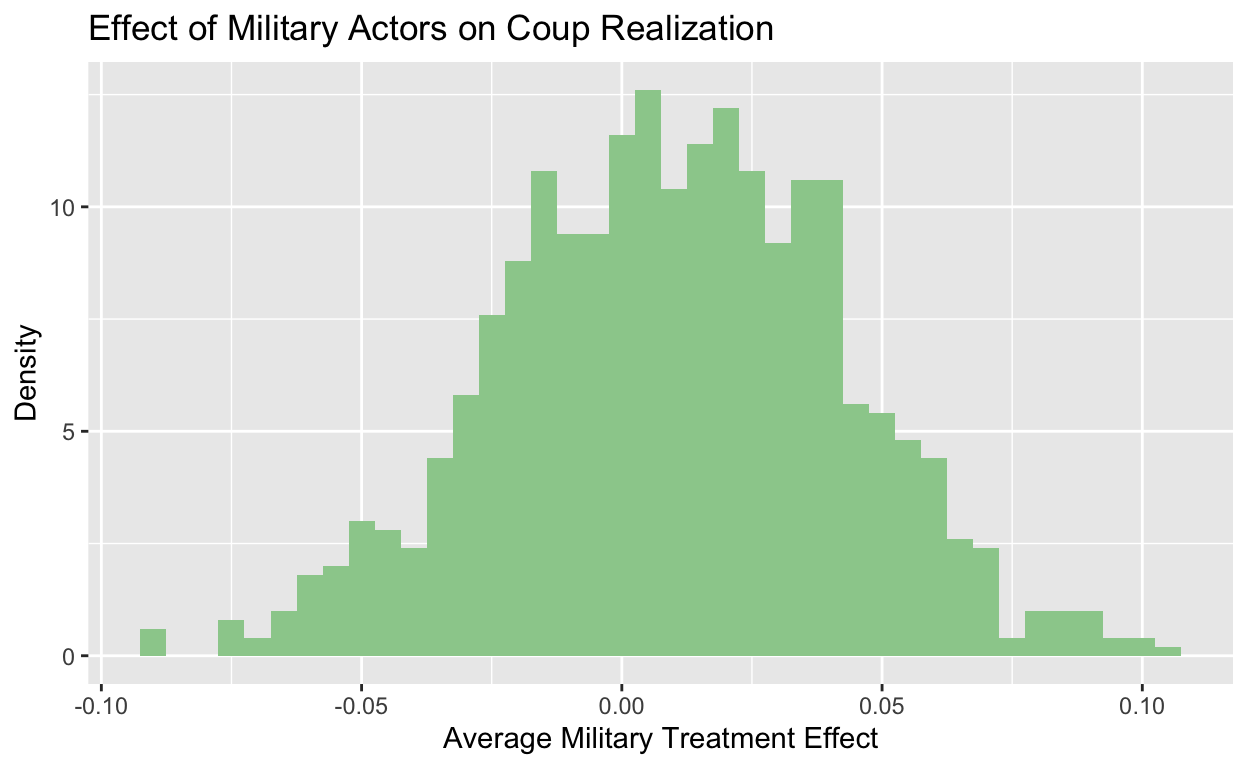
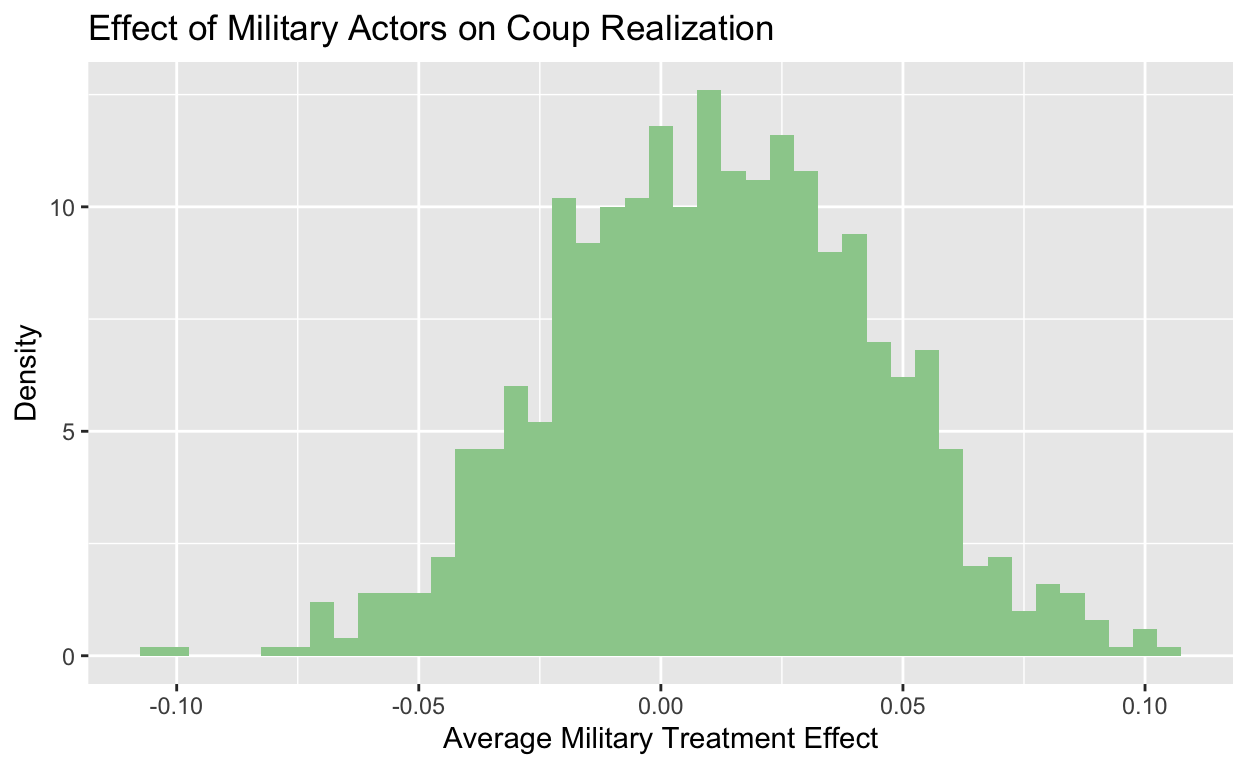
Second Try!

diff --git a/index.html b/index.html
@@ -1595,18 +1595,18 @@ code span.wa { color: #5e5e5e; font-style: italic; } /* Warning */
 </div>
 <pre><code># A tibble: 1,000 × 4
 # Groups:   replicate [1,000]
-   replicate   `0`   `1`      ATE
-       &lt;int&gt; &lt;dbl&gt; &lt;dbl&gt;    &lt;dbl&gt;
- 1         1 0.479 0.450 -0.0285 
- 2         2 0.472 0.443 -0.0294 
- 3         3 0.417 0.413 -0.00371
- 4         4 0.487 0.451 -0.0359 
- 5         5 0.470 0.438 -0.0327 
- 6         6 0.395 0.439  0.0439 
- 7         7 0.452 0.450 -0.00220
- 8         8 0.457 0.438 -0.0192 
- 9         9 0.432 0.454  0.0218 
-10        10 0.414 0.391 -0.0230 
+   replicate   `0`   `1`     ATE
+       &lt;int&gt; &lt;dbl&gt; &lt;dbl&gt;   &lt;dbl&gt;
+ 1         1 0.426 0.487  0.0606
+ 2         2 0.479 0.456 -0.0230
+ 3         3 0.421 0.459  0.0387
+ 4         4 0.482 0.460 -0.0216
+ 5         5 0.470 0.448 -0.0222
+ 6         6 0.470 0.458 -0.0115
+ 7         7 0.460 0.421 -0.0391
+ 8         8 0.409 0.454  0.0451
+ 9         9 0.451 0.436 -0.0142
+10        10 0.495 0.451 -0.0437
 # ℹ 990 more rows</code></pre>
 <div class="sourceCode">
 <pre class="sourceCode r"><code class="sourceCode r"><span><span class='va'>mil_ci_95</span> <span class='op'>&lt;-</span> <span class='va'>mil_boots</span> <span class='op'>|&gt;</span></span>
@@ -1625,13 +1625,13 @@ code span.wa { color: #5e5e5e; font-style: italic; } /* Warning */
 </thead>
 <tbody>
 <tr class="odd">
-<td style="text-align: right;">-0.0554</td>
-<td style="text-align: right;">0.0711</td>
+<td style="text-align: right;">-0.0526</td>
+<td style="text-align: right;">0.0765</td>
 </tr>
 </tbody>
 </table>
 </div>
-<p>In terms of the difference in means, the estimated average treatment effect is a small positive number, at just .0099. That means that essentially there is not much of a difference of a coup getting realized if the military is involved. What it does show is that there isn’t a decrease either. That is, having military involvement does not necessarily mean that a coup is less likely to be realized. This is because there is a positive relationship between the two variables. Thus, while the confidence intervals will determine whether or not the null hypothesis can be rejected, the ATE allows us to examine the relationship in the first place.</p>
+<p>The above is a difference in differences. In terms of the difference in means, the estimated average treatment effect is a small positive number, at just .0099. That means that essentially there is not much of a difference of a coup getting realized if the military is involved. What it does show is that there isn’t a decrease either. That is, having military involvement does not necessarily mean that a coup is less likely to be realized. This is because there is a positive relationship between the two variables. Thus, while the confidence intervals will determine whether or not the null hypothesis can be rejected, the ATE allows us to examine the relationship in the first place.</p>
 <p>This visualization demonstrates that military involvement does not decisively impact whether or not a coup d’etat is realized or not. This is because the 95 confidence intervals include zero. The Lower Confidence Interval is -0.05203567 and the Upper Confidence Interval is 0.06772111. The greater meaning of this is that military actors, contrary to expectation, do not actually increase the likelihood that a coup will be realized. This provides evidence against the hypothesis that trained and disciplined military cadres would be more prepared to follow through on a coup than civilian conspirators.</p>
 <p>We used the 95 percent confidence interval so that we could see if we would get a meaningful result in 95 percent of repeated samples, and it is clear that we are discovering that we don’t meet that threshold. So there is statistical uncertainty, meaning we can’t reject the null hypothesis that there is statistical difference. An important thing to note for confidence intervals is also that for each particular calculated confidence interval, truth is either in it or not, meaning we should try to mainly increase the reps to get a more accurate picture, rather than focus on whether or not one sample matches the truth.</p>
 <h2 id="results-section">Results Section</h2>
@@ -1762,10 +1762,10 @@ statistic = c(“s.e. = {std.error}”,
 “p = {p.value}”),
 coef_map =
 gof_map = c(“nobs”, “r.squared”, “adj.r.squared”))</p>
-<p>Interestingly, when controlling for most of the other major kinds of coups possible, we see that that at the alpha = .1 or the 90% confidence interval we can reject the null hypothesis that there is no relationship between military involvement and a coup being realized because the p value is 0.073 which is less than the alpha. But, we can’t actually take the hypothesis, which was that there is a positive relationship, because here we are observing that there is a negative hypothesis. Of course, it is such a small number that essentially there is only a slight negative relationship. In sum, it is clear that controlling for the other kinds of coups adds important context to the relationship that I observed in the regression before as well as the positive relationship I observed in the Average Treatment Effect.</p>
+<p>Interestingly, when controlling for most of the other major kinds of coups possible, we see that that at the alpha = .05 or the 95% confidence interval we fail to reject the null hypothesis that there is no relationship between military involvement and a coup being realized because the p value is 0.073 which is larger than the alpha. Of course, it is such a small number that essentially there is only a slight negative relationship. In sum, it is clear that controlling for the other kinds of coups adds important conformation to the not-statistically significant relationship that I observed in the regression when I examined the confidence intervals for the difference in differences.</p>
 <h2 id="conclusion-section">Conclusion section</h2>
 <p>Indeed, we find that based on the regression and the bootstrap, there is not a statistically meaningful relationship between military involvement in the coup and a higher likelihood of a realized coup occurring. Indeed, based off of the bootstrap and the regression table, we can see that we are not able to reject the null hypothesis at the 95% level and thus we cannot say for sure whether there is a relationship, and anyhow the ATE calculated is extremely small. Thus, based on the analysis from the ATE, bootstrap and the regression, there is a weak relationship between military involvement and realized coup attempts. In simpler terms, there is weak to no support for my hypothesis.</p>
-<p>Of course, the analysis shifts when looking at the multiple regression. There, the p-value is small enough to reject the null at the 90 percent confidence intervals, but the relationship discovered is negative, meaning that my hypothesis is not supported in any case. Nevertheless, this outcome demonstrates the importance of controls on experiment data. I would not have expected there would be a (very small) negative relationship between the two variables.</p>
+<p>Of course, the analysis is confirmed when looking at the multiple regression. There, the p-value of 0.07 is larger than the alpha of 0.05, meaning that we fail reject the null hypothesis, meaning that the relationship is not statistically significant. Thus, controlling for the variables confirms the earlier bootstrapping.</p>
 <p>In terms of limits to analysis, I think that the dataset has a very strict definition of what can be considered a coup, and also what constitutes military involvement. So, I do think that there is definitely some missing data from coups that may not have had the whole military involved, but several high ranking generals working with civilian counterparts in a conspiracy etc. I think that there is potentially a greater relationship if the parameters are loosened to a greater degree. In terms of a threat to inference in the experiment, I think there may be a kind of sampling bias inside the dataset where in a lot of these cases we may for national security reasons in many of these countries not know exactly who brought down the previous regime. What this means is that I suspect in many cases the conspirators or politicians hoping to stage a coup have a verbal agreement with the military that they won’t do anything. In those cases, I feel as though the military is implicated in the coup attempt. There are also likely many confounding variables, one of which are explored in an additional analysis paragraph.</p>
 <h2 id="additional-analysis">Additional Analysis</h2>
 <p>I will also note that there are several potential confounders that could influence both whether the military is involved in the coup attempt and whether the coup is successful or not. Indeed, one potential confounder is the length of time that the incumbent regime has been in power. If they have been in power for a long time, there is probably a lower chance that a coup against them would be realized, because they have been able to consolidate control, and that time in power variable would have given the regime sufficient time to put their elites in place in the military hierarchy. Thus, that is one possible confounder. In terms of an alternative explanation for the results that I have gained, I think that much of the military involvement in coups might be the verbal contracts to not interfere with coup plotters’ plans. Thus, I think if the dataset included those kinds of more nebulous and hard-to-measure varities of involvement, perhaps you would find a stronger correlation between military involvement and realized coups. Thus, because the military variable does not include security forces, ex-military, or informal agreements between other factors and military leaders, I think that the parameters could prevent the emergence of a positive relationship between the two variables.</p>
